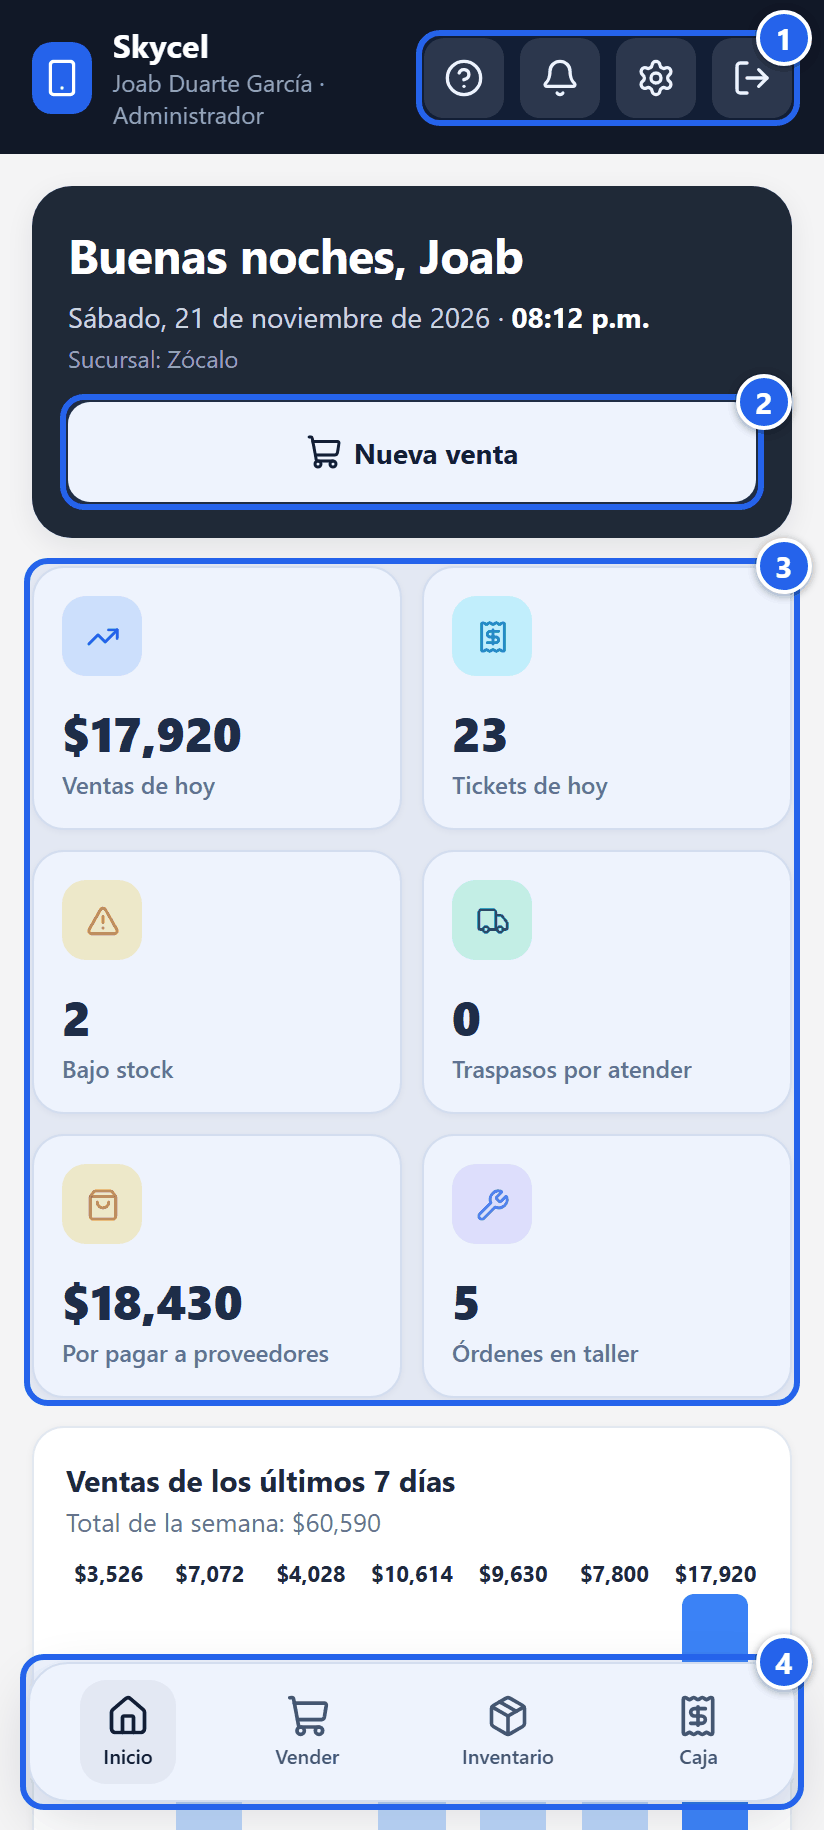
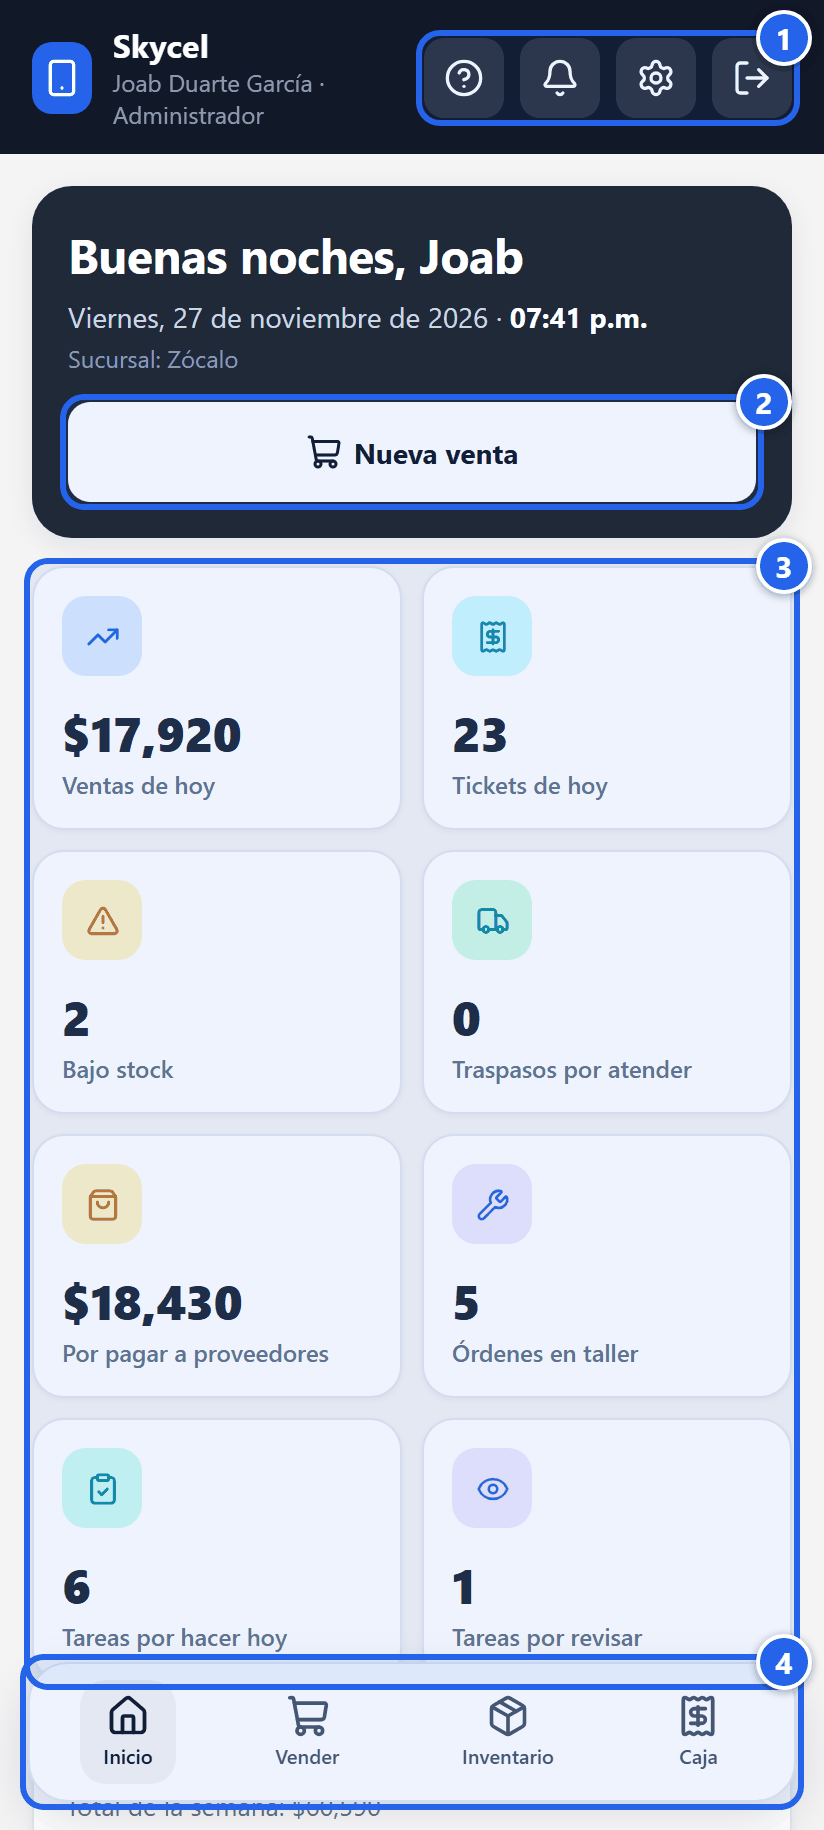
Inicio: aviso de tareas por hacer y por revisar
- Indicador "Tareas por hacer hoy" (rojo si hay atrasadas) y "Tareas por revisar" en el Inicio de la web
- Manuales actualizados; sw v76

diff --git a/src/main/resources/static/app/js/app.js b/src/main/resources/static/app/js/app.js
@@ -520,6 +520,8 @@ async function pantallaMenu() {
   if (verTraspasos) kpis.push({ id: 'traspasos', c: 'c3', i: 'truck', t: 'Traspasos por atender', h: '#/traspasos' });
   if (gestor) kpis.push({ id: 'porpagar', c: 'c4', i: 'shopping-bag', t: 'Por pagar a proveedores', h: '#/compras' });
   if (enTaller) kpis.push({ id: 'taller', c: 'c5', i: 'wrench', t: 'Órdenes en taller', h: '#/taller' });
+  if (Sesion.tiene('TAREAS_VER')) kpis.push({ id: 'tareas', c: 'c7', i: 'clipboard-check', t: 'Tareas por hacer hoy', h: '#/tareas' });
+  if (Sesion.tiene('TAREAS_ASIGNAR')) kpis.push({ id: 'tarrev', c: 'c5', i: 'eye', t: 'Tareas por revisar', h: '#/tareas' });
   if (pend + err > 0) kpis.push({ id: 'pend', c: 'c6', i: 'cloud-upload', t: 'Por enviar', h: '#/pendientes', v: String(pend + err) });
 
   root.innerHTML = `
@@ -656,6 +658,13 @@ async function pantallaMenu() {
       .catch(() => poner('dk-porpagar', '—'));
   }
   if (enTaller) api('GET', '/api/ordenes-servicio/taller').then(l => poner('dk-taller', String(l.length))).catch(() => poner('dk-taller', '—'));
+  if (Sesion.tiene('TAREAS_VER')) api('GET', `/api/tareas/mias?codti=${codti}`).then(d => {
+    const el = document.getElementById('dk-tareas');
+    if (!el) return;
+    el.textContent = d.atrasadas > 0 ? `${d.pendientes} · ${d.atrasadas} ${d.atrasadas === 1 ? 'atrasada' : 'atrasadas'}` : String(d.pendientes);
+    if (d.atrasadas > 0) { el.style.color = '#dc2626'; el.style.fontSize = '16px'; }
+  }).catch(() => poner('dk-tareas', '—'));
+  if (Sesion.tiene('TAREAS_ASIGNAR')) api('GET', `/api/tareas/revision?codti=${codti}`).then(l => poner('dk-tarrev', String(l.length))).catch(() => poner('dk-tarrev', '—'));
 }
 
 /** Gráfica de barras de 7 días (HTML y CSS, sin librerías): total vendido por día; la barra de hoy va resaltada. */

diff --git a/src/main/resources/static/app/css/app.css b/src/main/resources/static/app/css/app.css
@@ -620,6 +620,7 @@ h1 .ic { color: var(--oscuro); opacity: 0.75; }
 .kpi b.c1 { --fg: #2563eb; --bg: #dbeafe; background: var(--bg); } .kpi b.c2 { --fg: #0891b2; --bg: #cffafe; background: var(--bg); }
 .kpi b.c3 { --fg: #059669; --bg: #d1fae5; background: var(--bg); } .kpi b.c4 { --fg: #d97706; --bg: #fef3c7; background: var(--bg); }
 .kpi b.c5 { --fg: #7c3aed; --bg: #ede9fe; background: var(--bg); } .kpi b.c6 { --fg: #64748b; --bg: #e2e8f0; background: var(--bg); }
+.kpi b.c7 { --fg: #0d9488; --bg: #ccfbf1; background: var(--bg); }
 
 /* Banner de bienvenida */
 .banner { background: var(--banner); color: white; border-radius: 20px; padding: 20px 22px; margin-bottom: 14px; box-shadow: var(--sombra-md); }

diff --git a/src/main/resources/static/app/sw.js b/src/main/resources/static/app/sw.js
@@ -3,7 +3,7 @@
  * sin conexión; los datos (todo /api/...) siempre van a la red — nunca se sirven de la caché, para no mostrar
  * información vieja o mandar peticiones fuera de línea que parezcan haber funcionado.
  */
-const CACHE = 'skycel-app-v75';
+const CACHE = 'skycel-app-v76';
 const ARCHIVOS = [
   '/app', '/app/',
   '/app/index.html',

diff --git a/ops/manual/construir_manuales.py b/ops/manual/construir_manuales.py
@@ -58,7 +58,7 @@ PRIMEROS_JS = PRIMEROS_COMUN.format(
 @@IMG inicio.png | La pantalla de inicio de JSystem. Haz clic en la imagen para verla más grande.@@
 @@L - **①** **El menú de la izquierda.** Los grupos (Ventas, Inventario, Finanzas…) se abren y se cierran con un clic.
 @@L - **②** **Accesos rápidos** a las pantallas que más usas.
-@@L - **③** **Los números del día:** ventas, tickets, existencias bajas, traspasos, cuentas por pagar y órdenes en el taller. Haz clic en uno para abrir su pantalla.
+@@L - **③** **Los números del día:** ventas, tickets, existencias bajas, traspasos, cuentas por pagar y órdenes en el taller. Si usas **Tareas**, también salen **Tareas por hacer hoy** (en rojo, cuántas ya van atrasadas) y, si eres encargado o administrador, **Tareas por revisar**. Haz clic en uno para abrir su pantalla.
 @@L - **④** **Ventas de los últimos 7 días.** Hoy es la barra azul fuerte.
 @@L - **⑤** **Saldo de caja** de la tienda, con lo que entró y salió.
 @@L - **⑥** **Ayuda, avisos, configuración, tema, contraseña y salir.**
@@ -80,7 +80,7 @@ PRIMEROS_WEB = PRIMEROS_COMUN.format(
 @@WEB web-menu.png | El inicio en el celular.@@
 @@WL - **①** **Ayuda, avisos, ajustes y salir.** El número rojo de la campana son los avisos que no has leído.
 @@WL - **②** **Nueva venta,** si tu rol vende.
-@@WL - **③** **Los números del día** (ventas, tickets, bajo stock, traspasos, por pagar y órdenes en el taller, según tu rol). Toca uno para abrir su pantalla.
+@@WL - **③** **Los números del día** (ventas, tickets, bajo stock, traspasos, por pagar y órdenes en el taller, según tu rol). Si usas **Tareas** verás **Tareas por hacer hoy** (en rojo, cuántas van atrasadas) y, si revisas, **Tareas por revisar**. Toca uno para abrir su pantalla.
 @@WL - **④** **El acceso rápido de abajo:** Inicio, Vender, Inventario y Caja.
 
 @@WEB web-ajustes.png | Ajustes: tu contraseña y, para el administrador, las formas de pago y el logo.@@

diff --git a/src/main/resources/static/app/ayuda/manual.md b/src/main/resources/static/app/ayuda/manual.md
@@ -37,7 +37,7 @@ Solo el **encargado** y el **técnico** están ligados a una tienda; los vendedo
 ![El inicio en el celular.](img/web-menu.png)
 - **①** **Ayuda, avisos, ajustes y salir.** El número rojo de la campana son los avisos que no has leído.
 - **②** **Nueva venta,** si tu rol vende.
-- **③** **Los números del día** (ventas, tickets, bajo stock, traspasos, por pagar y órdenes en el taller, según tu rol). Toca uno para abrir su pantalla.
+- **③** **Los números del día** (ventas, tickets, bajo stock, traspasos, por pagar y órdenes en el taller, según tu rol). Si usas **Tareas** verás **Tareas por hacer hoy** (en rojo, cuántas van atrasadas) y, si revisas, **Tareas por revisar**. Toca uno para abrir su pantalla.
 - **④** **El acceso rápido de abajo:** Inicio, Vender, Inventario y Caja.
 
 ![Ajustes: tu contraseña y, para el administrador, las formas de pago y el logo.](img/web-ajustes.png)
